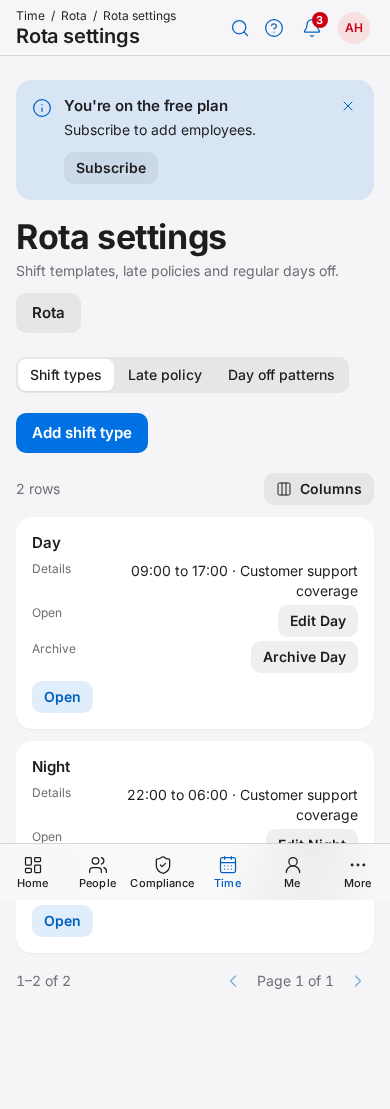
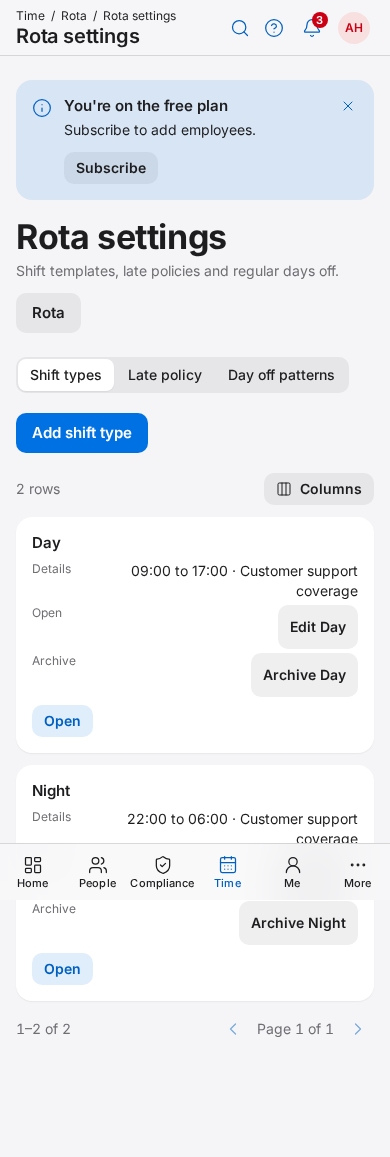
wip(Phase9): select seeded attendance day for visual evidence
Next: finish mobile run then final four phase9 screenshot variants and PR.

diff --git a/web/tests/e2e/phase9-screenshots.spec.ts b/web/tests/e2e/phase9-screenshots.spec.ts
@@ -252,6 +252,8 @@ for (const colorScheme of ["light", "dark"] as const) {
         await expect(
           page.getByRole("button", { name: "Record attendance", exact: true }),
         ).toBeVisible();
+        await page.getByLabel("Selected day", { exact: true }).fill(day);
+        await expect(page.getByText("Sick", { exact: true }).first()).toBeVisible();
         await shoot(page, `attendance-${suffix}`);
         await page.getByRole("button", { name: "Record attendance", exact: true }).click();
         await expect(

diff --git a/STATUS.md b/STATUS.md
@@ -11,7 +11,7 @@ State: IN PROGRESS
   - [x] Full web/unit/script/browser suite (sequentially)
   - [ ] 390/1280 light/dark screenshots and visual review
   - [ ] Five-line phase summary, PR dev→main and green CI merge
-- Resume note: Screenshot run /tmp/phase9-screenshots.txt exposed 19px overflow in long rota policy action labels on mobile. Wrapping fix in settings.tsx passes eslint/types. Finish active screenshot run, rerun screenshot spec against rebuilt production, review 76 images then summary/PR. Full prior validation green.
+- Resume note: Desktop screenshot checks pass; mobile rerun /tmp/phase9-screenshots-mobile.txt active for policy-label wrap fix. Screenshot seed now explicitly selects company-local day to avoid browser timezone showing empty attendance. Next all four screenshot variants, visual review, summary and PR.
 
 ## Next tasks
 - T10.1 — company documents

diff --git a/.agent/journal.md b/.agent/journal.md
@@ -204,3 +204,4 @@
 2026-11-03 19:02 | Codex | Phase9 gate | full browser413 pass/156 skipped/seven failures; attendance readiness and four built-page/More selectors corrected | next targeted seven browser cases then screenshots/review/PR
 2026-11-04 05:05 | Codex | Phase9 gate | recovered successful targeted browser retry log:8 pass, all seven full-run failures resolved | next 76 screenshots and visual review/green PR
 2026-11-03 22:38 | Codex | Phase9 gate | screenshot mobile check exposed long rota action overflow; scoped wrapping fix passes eslint/types | next rebuilt screenshots and visual review
+2026-11-03 22:39 | Codex | Phase9 gate | desktop screenshot review complete; attendance screenshot selects seeded company day explicitly | next final four screenshot variants then PR
